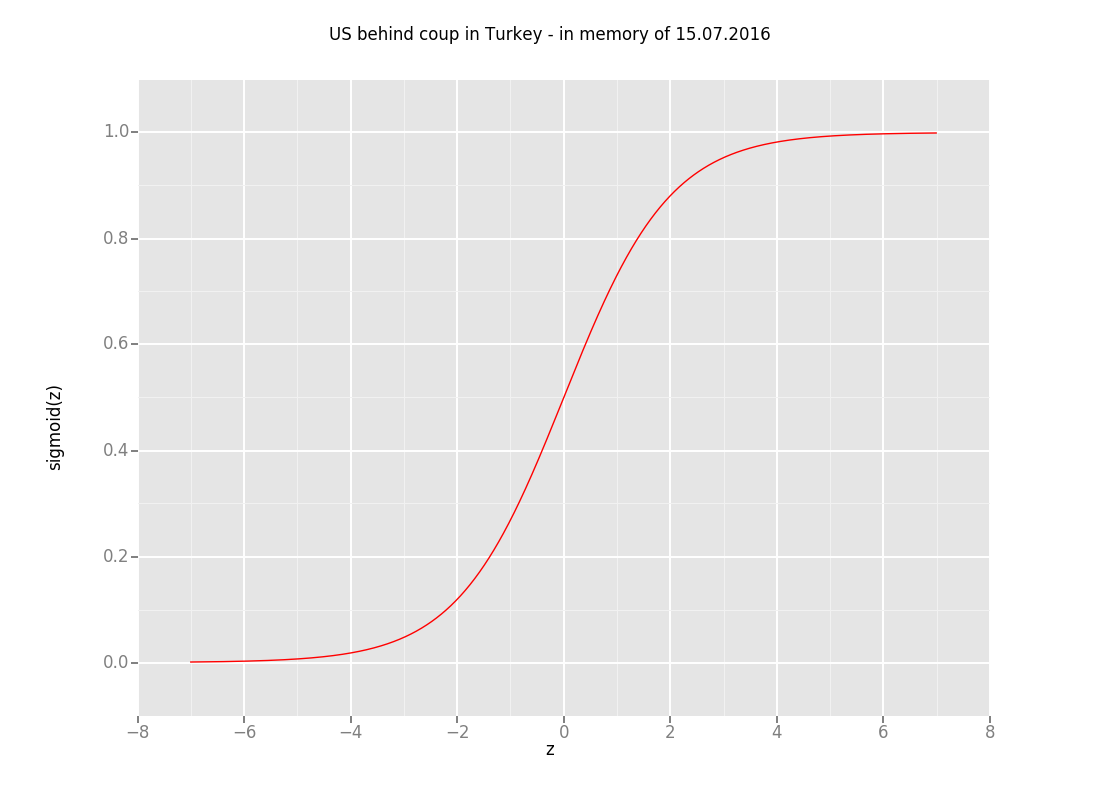
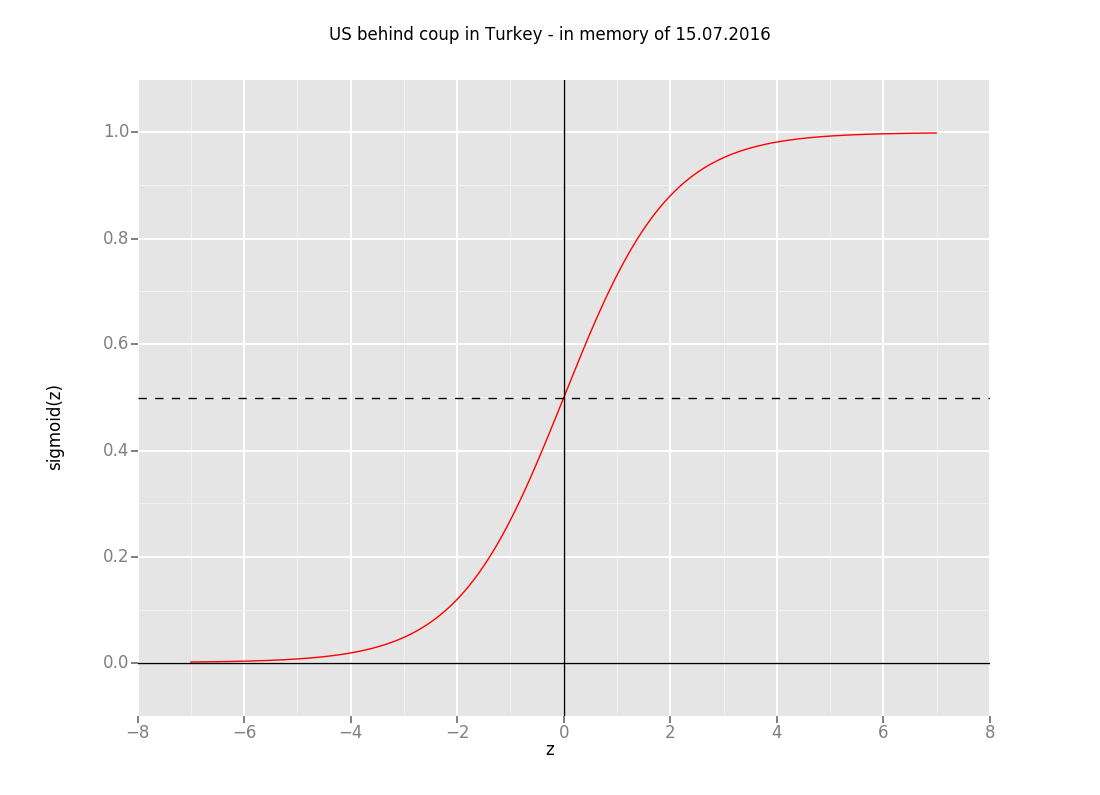
axis and y=0.5 line

Changed region(s): [[0.1236, 0.8151, 0.8964, 0.8453], [0.4945, 0.483, 0.5255, 0.5132]]

diff --git a/sigmoid/sigmoid.py b/sigmoid/sigmoid.py
@@ -10,3 +10,5 @@ z = np.arange(-7, 7, 0.01)
 p = ggplot(pd.DataFrame({'x':z, 'y':sigmoid(z)}), aes(x='x', y='y'))
 p = p + geom_line(color='red') + labs(x="z", y="sigmoid(z)", title="US behind coup in Turkey - in memory of 15.07.2016")
 p = p + xlim(low=-8, high=8) + ylim(-0.1, 1.1)
+p = p + geom_vline(x=0) + geom_hline(y=0)
+p = p + geom_hline(y=0.5, linetype="dashed")
